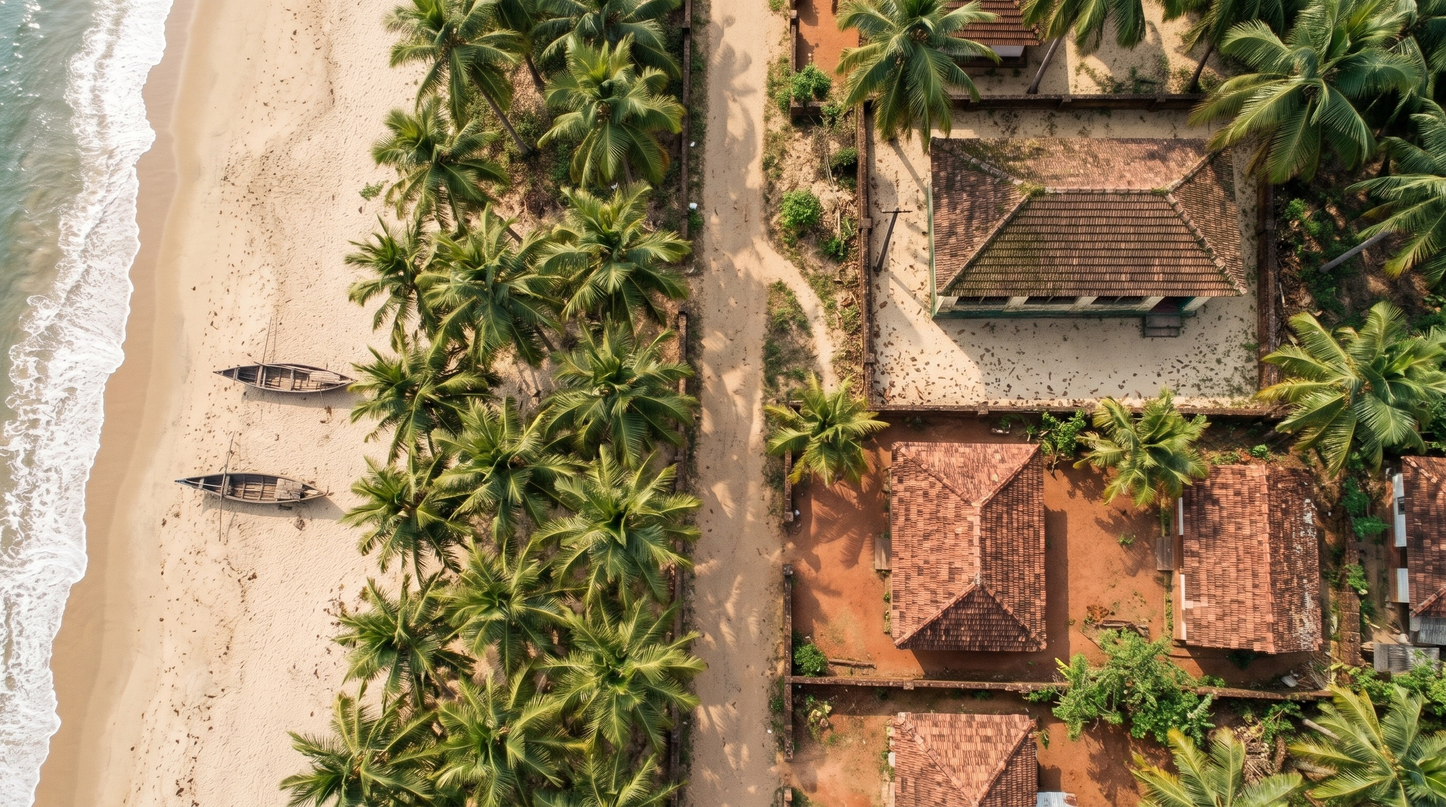
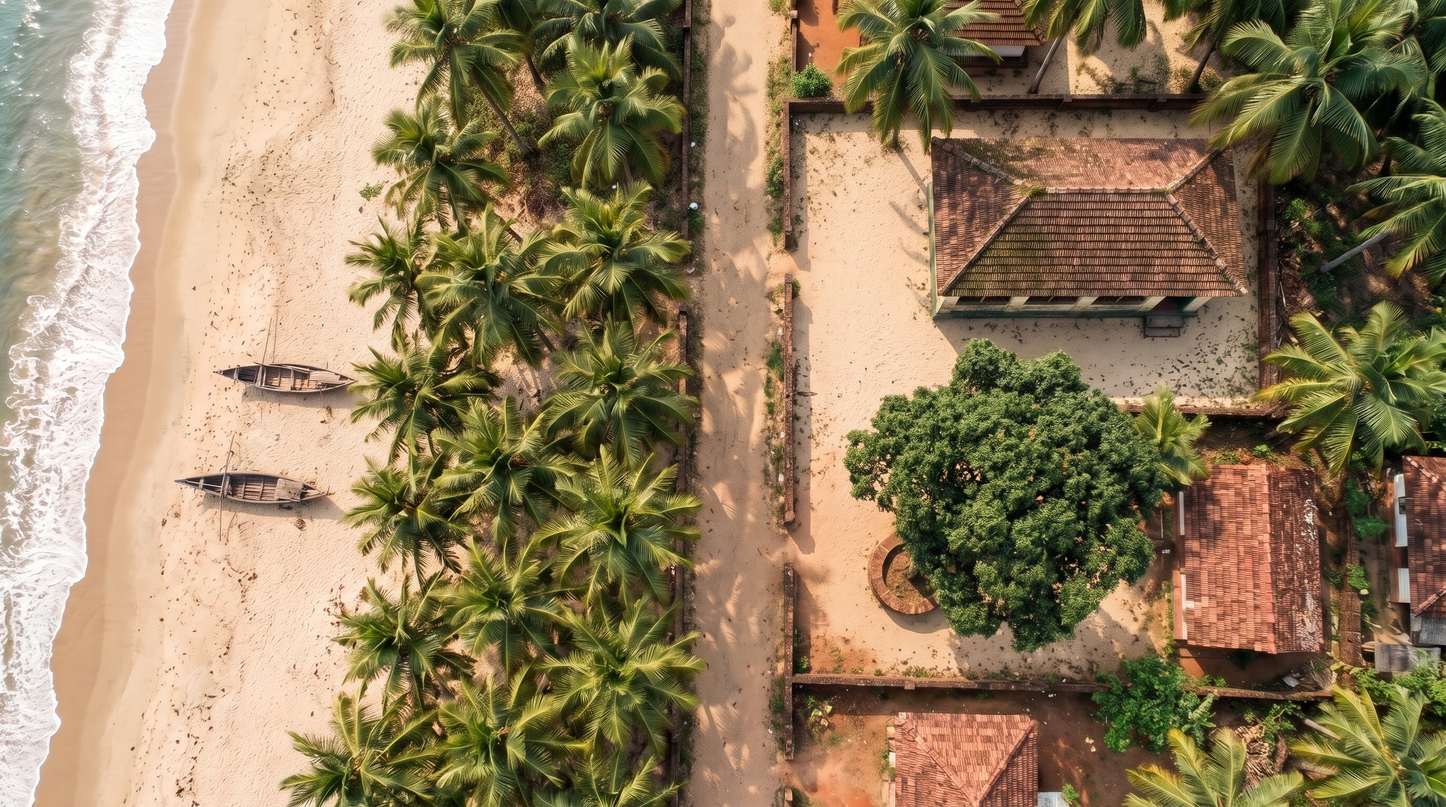
Ananthu: asset: tuition road aerial v2 with walls and mango tree (@tuitionroadaerialplate)

diff --git a/INDEX.md b/INDEX.md
@@ -57,7 +57,7 @@ Status: `approved` · `waiting for approval` · `retired`
 | `@tuitionfrontclass` | Straight-on front from the yard, class in session: children behind the three barred windows, Clara in the green doorway with a book, hipped roof | Shots from the yard looking at the school during class; attach @clara20 too | `locations/tuition/tuitionfrontclass.png` | Ranjith | 2026-11-04 | approved |
 | `topview-class` (no ID) | Top-down, roof removed, class in session: seating of the 8 children, Clara's table, board, door, windows | Planning only; never attach | `locations/tuition/topview-class.png` | Ranjith | 2026-11-04 | approved |
 | `@tuitionfront` | Tuition centre straight-on from the yard: hipped tile roof, 3 barred windows, green door at the right end (open inward, hinged on the right), blank board above it, 2 stone steps, green plinth, laterite walls each side, palms, electric pole at left. Replaces `@tuitionout` and `@tuitionfullview` | Camera outside looking at the front of the building. Through the door it shows a dark board on the wall opposite; describe the doorway in words | `locations/tuition/tuitionfront.webp` | Aswanth | 2026-11-03 | approved |
-| `@tuitionroadaerialplate` | Straight-down aerial of the coast road: beach, boats and palms on the LEFT, the empty unpaved road in the middle, tiled houses on the RIGHT, Clara's tuition centre at the upper right on a short footpath | Aerial shots of Antony walking to the tuition centre (Scene 3 opening) | `locations/tuition/plates/tuition-road-aerial.jpg` | Ananthu | 2026-11-09 | approved — upload to platform |
+| `@tuitionroadaerialplate` | Straight-down aerial of the coast road: beach, boats and palms on the LEFT, the empty unpaved road between low laterite walls in the middle, tiled houses on the RIGHT, Clara's tuition centre upper right in its sandy yard with the big mango tree and round seat by the road | Aerial shots of Antony walking to the tuition centre (Scene 3 opening) | `locations/tuition/plates/tuition-road-aerial.jpg` | Ananthu | 2026-11-09 | approved — upload to platform |
 | `@tuitionc1plate` | Tuition C1: eye level along the coast road — palms, boats and sea behind a laterite wall on the LEFT, walls and houses on the RIGHT, the school's yard ahead right with the big mango tree and its round seat, then the school | Shots walking along the road toward the school | `locations/tuition/plates/tuition-c1-road-plate.jpg` | Ananthu | 2026-11-09 | approved — upload to platform |
 | `@tuitionc2plate` | Tuition C2: the school front from its sandy yard, three-quarter from the left; open sand to stand and talk | Antony and Clara outside the school | `locations/tuition/plates/tuition-c2-yard-plate.jpg` | Ananthu | 2026-11-09 | approved — upload to platform |
 | — (top view, not uploaded) | Tuition centre straight from above, roof removed: front wall at the bottom with 3 barred windows then the green door at the right end and 2 steps; back wall 3 barred windows; chalkboard on the right end wall; teacher's table and chair before it; 4 desk-bench rows across the room, benches on the left so the children face the board. Replaces `@tuitionmap` for planning; hipped-roof set | Planning only; never attach (L9) | `locations/tuition/topview.webp` | Aswanth | 2026-11-03 | approved |

diff --git a/scenes/showreel/image-qa/tuition-road-aerial.md b/scenes/showreel/image-qa/tuition-road-aerial.md
@@ -1,7 +1,8 @@
-# IMAGE QA — tuition-road-aerial.jpg (@tuitionroadaerialplate) · Continuity score 88/100 · Matches with small drift
+# IMAGE QA — tuition-road-aerial.jpg (@tuitionroadaerialplate) · Continuity score 87/100 · Matches with small drift
 
-Made by Ananthu (Higgsfield, Nano Banana 2.1) on 2026-11-09 from @tuitionfront, the tuition top view and @2bwidestart2 (palette).
-- ✅ Straight down; photographic; warm golden morning, long shadows from the sea side.
-- ✅ Left: sea, beach, two boats, palms along the coast. Middle: the empty unpaved road. Right: tiled houses, red-earth yards, laterite walls.
-- ✅ Tuition centre upper right: hipped tile roof with moss, green plinth, two stone steps, pale sandy yard with leaves, laterite walls, electric pole; a short footpath from the road.
-- ⚠ The footpath is short; the tuition centre sits close to the road.
+Version 2 (W2), approved by Ananthu 2026-11-09; replaces plain N1 (kept in `locations/tuition/plates/retired/`, never used in a shot). Made with Nano Banana 2.1 from N1, @tuitionc1plate and @tuitionfront so the aerial matches the road view.
+- ✅ Straight down; warm golden morning; sea, beach, boats and palms LEFT; houses RIGHT; school upper right.
+- ✅ Laterite walls along both edges of the road (as in @tuitionc1plate).
+- ✅ The school's sandy yard opens off the road through a gap in the right-hand wall.
+- ✅ The big mango tree with its round seat in the yard by the road wall, before the school (as in @tuitionc1plate).
+- ⚠ Road walls read as thin lines from this height; the mango crown is large next to the school roof.
